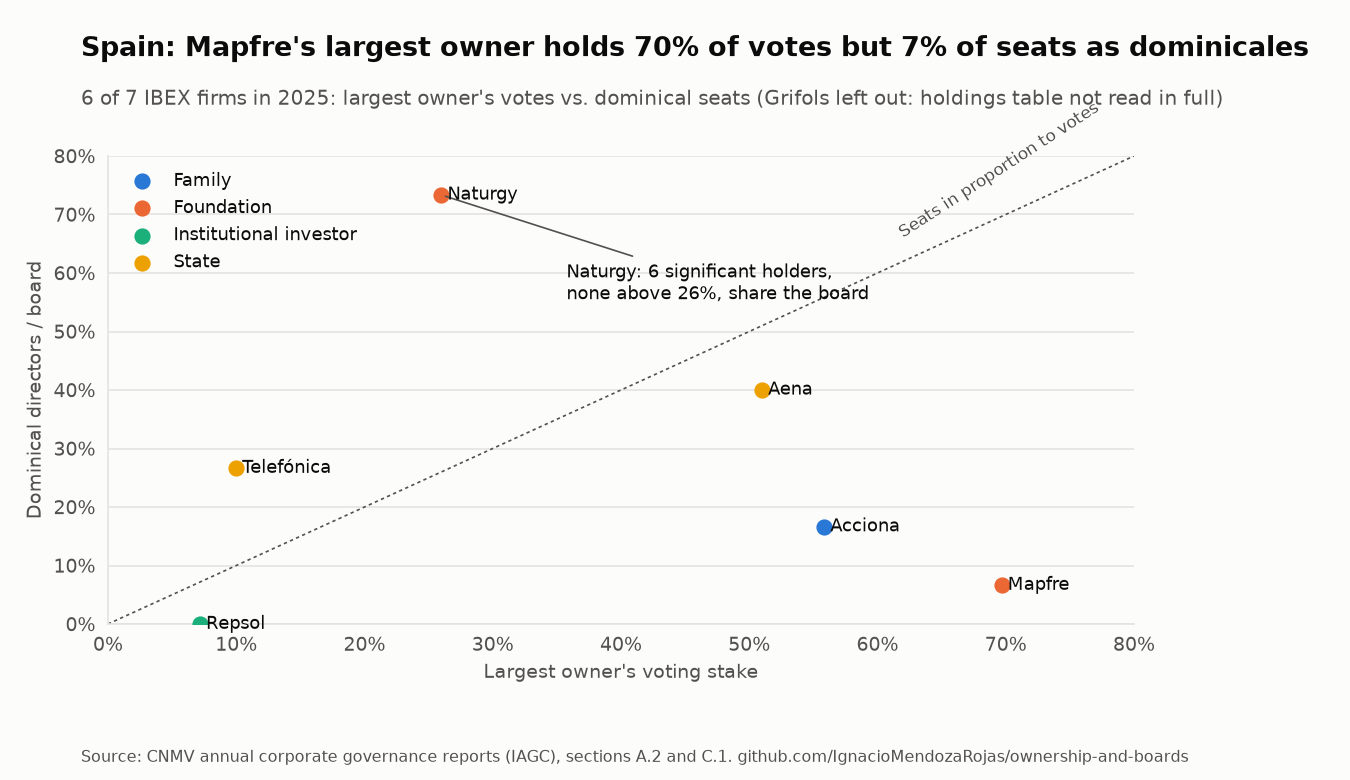
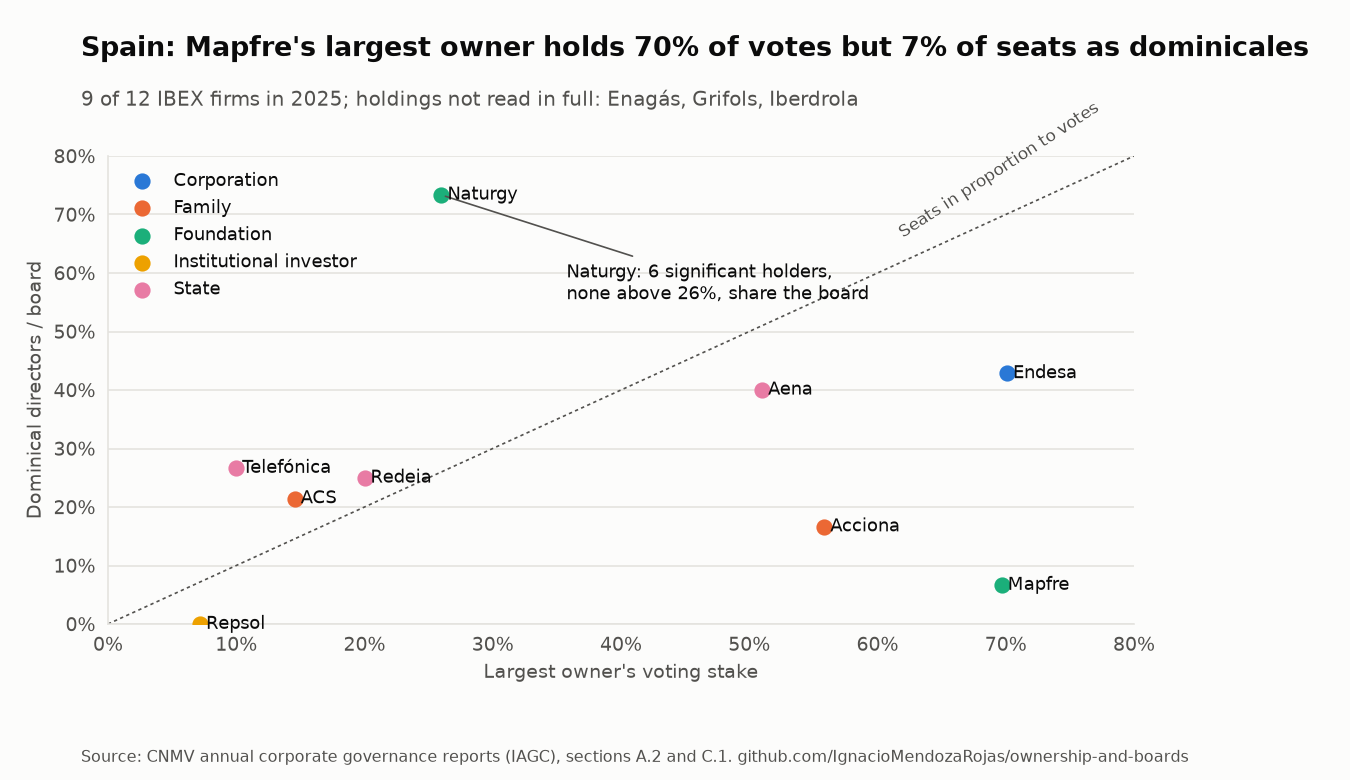
Research: twelve Spanish firms, Mapfre and Endesa compared, pay by owner identity
Claude-Session: https://claude.ai/code/session_01GFch6Mf9N8rni9gmPQhHex

diff --git a/index.html b/index.html
@@ -122,18 +122,18 @@
 
 <section class="finding" aria-labelledby="c-research">
   <p class="project"><strong>Research: ownership, boards and sustainable value creation</strong></p>
-  <h2 id="c-research">Fundación Mapfre holds 70% of Mapfre's votes but one of its 15 board seats as a dominical director. At Naturgy, six significant holders, none above 26%, hold 11 of 15.</h2>
+  <h2 id="c-research">Fundación Mapfre and Enel each hold 70% of their company's votes. Mapfre's foundation takes one of 15 board seats as a dominical director; Enel takes six of Endesa's 14.</h2>
   <div class="measure">
-    <p><em>The question:</em> how owner heterogeneity shapes boards. Different types and combinations of shareholders (business groups, families, foundations, the State, pension funds and institutional investors) bring different incentives and forms of influence; I study how these constellations of owners, and the way multiple significant owners interact, translate into the structure, composition and compensation of boards. Chile and Spain both have concentrated ownership but give minority owners different routes to the board. <em>Built here:</em> a firm-year panel from the regulators' public filings, the CMF's company pages and the CNMV's governance reports read out of PDF, with owners classified by type. In the pilot, the largest Chilean shareholder's median stake rose from 35% to 40% between 2010 and 2025, and Spanish controllers reach the board either through dominical directors or through executives, which a count of dominical seats alone misses. Board pay per director ranges from €36k at the State-controlled Aena to €1.28 million at Telefónica, whose board is shared by several significant owners: who the owners are seems to matter as much as how much they hold.</p>
+    <p><em>The question:</em> how owner heterogeneity shapes boards. Different types and combinations of shareholders (business groups, families, foundations, the State, pension funds and institutional investors) bring different incentives and forms of influence; I study how these constellations of owners, and the way multiple significant owners interact, translate into the structure, composition and compensation of boards. Chile and Spain both have concentrated ownership but give minority owners different routes to the board. <em>Built here:</em> a firm-year panel from the regulators' public filings, the CMF's company pages and the CNMV's governance reports read out of PDF, with owners classified by type. In the pilot, the largest Chilean shareholder's median stake rose from 35% to 40% between 2010 and 2025, and Spanish controllers reach the board either through dominical directors or through executives, which a count of dominical seats alone misses. Board pay per director ranges from €36k at Aena to €1.71 million at Iberdrola, and the two firms whose largest owner is the State pay least: who the owners are seems to matter as much as how much they hold.</p>
   </div>
   <figure>
     <picture>
       <source media="(prefers-color-scheme: dark)" srcset="assets/fig/governance-dark.png">
-      <img src="assets/fig/governance-light.png" alt="Largest owner's voting stake against the share of board seats held by dominical directors in six of seven IBEX firms in 2025: Mapfre's foundation holds 70% of votes and 7% of seats; Naturgy's investors hold 26% at most and 73% of seats" loading="lazy" width="1350" height="780">
+      <img src="assets/fig/governance-light.png" alt="Largest owner's voting stake against the share of board seats held by dominical directors in nine of twelve IBEX firms in 2025: Mapfre's foundation holds 70% of votes and 7% of seats; Enel holds 70% of Endesa and 43% of its seats" loading="lazy" width="1350" height="780">
     </picture>
   </figure>
   <ul class="tools measure">
-    <li><strong>Corporate governance: ownership and boards.</strong> <a href="https://github.com/IgnacioMendozaRojas/ownership-and-boards">ownership-and-boards</a>: pilot of 30 Chilean and 7 Spanish listed firms with ownership constellations, board composition and board pay, the research question and hypotheses to test next. <a href="https://github.com/IgnacioMendozaRojas/arauco-living-case">arauco-living-case</a>: the long view of one ownership chain in that sample, my business-history essay on Arauco and the Angelini group, kept up to date every month with FAOSTAT data and the news.</li>
+    <li><strong>Corporate governance: ownership and boards.</strong> <a href="https://github.com/IgnacioMendozaRojas/ownership-and-boards">ownership-and-boards</a>: pilot of 30 Chilean and 12 Spanish listed firms with ownership constellations, board composition and board pay, the research question and hypotheses to test next. <a href="https://github.com/IgnacioMendozaRojas/arauco-living-case">arauco-living-case</a>: the long view of one ownership chain in that sample, my business-history essay on Arauco and the Angelini group, kept up to date every month with FAOSTAT data and the news.</li>
     <li><strong>Digitalisation, technology and people.</strong> <em>Artificial Intelligence Use and Labour Cost Stickiness: Evidence from Spanish Firms</em>, MSc thesis (8.5/10), Universitat de Barcelona: how AI use relates to the asymmetric response of labour costs to falling sales, on Orbis and SABI firm panels. The code is in a private repository, available on request; it runs on synthetic data of the same format, as the licensed data cannot be shared.</li>
     <li><strong>Entrepreneurship and SME finance.</strong> Master's research on trade credit: an empirical paper on financial discipline and the survival of Spanish wholesale SMEs (SABI), and a qualitative research design on how entrepreneurs interpret banking uncertainty and turn it into trade credit practices.</li>
     <li><strong>Across the three.</strong> <a href="https://github.com/IgnacioMendozaRojas/literature-map">literature-map</a>: bibliometric maps rebuilt every month from OpenAlex for ownership and boards, AI and labour costs, and trade credit in SMEs (the automated version of my bibliometric review). In ownership and boards, only 1% of the literature deals with owner identity, and studies of state or foreign owners rarely meet those of family firms.</li>
